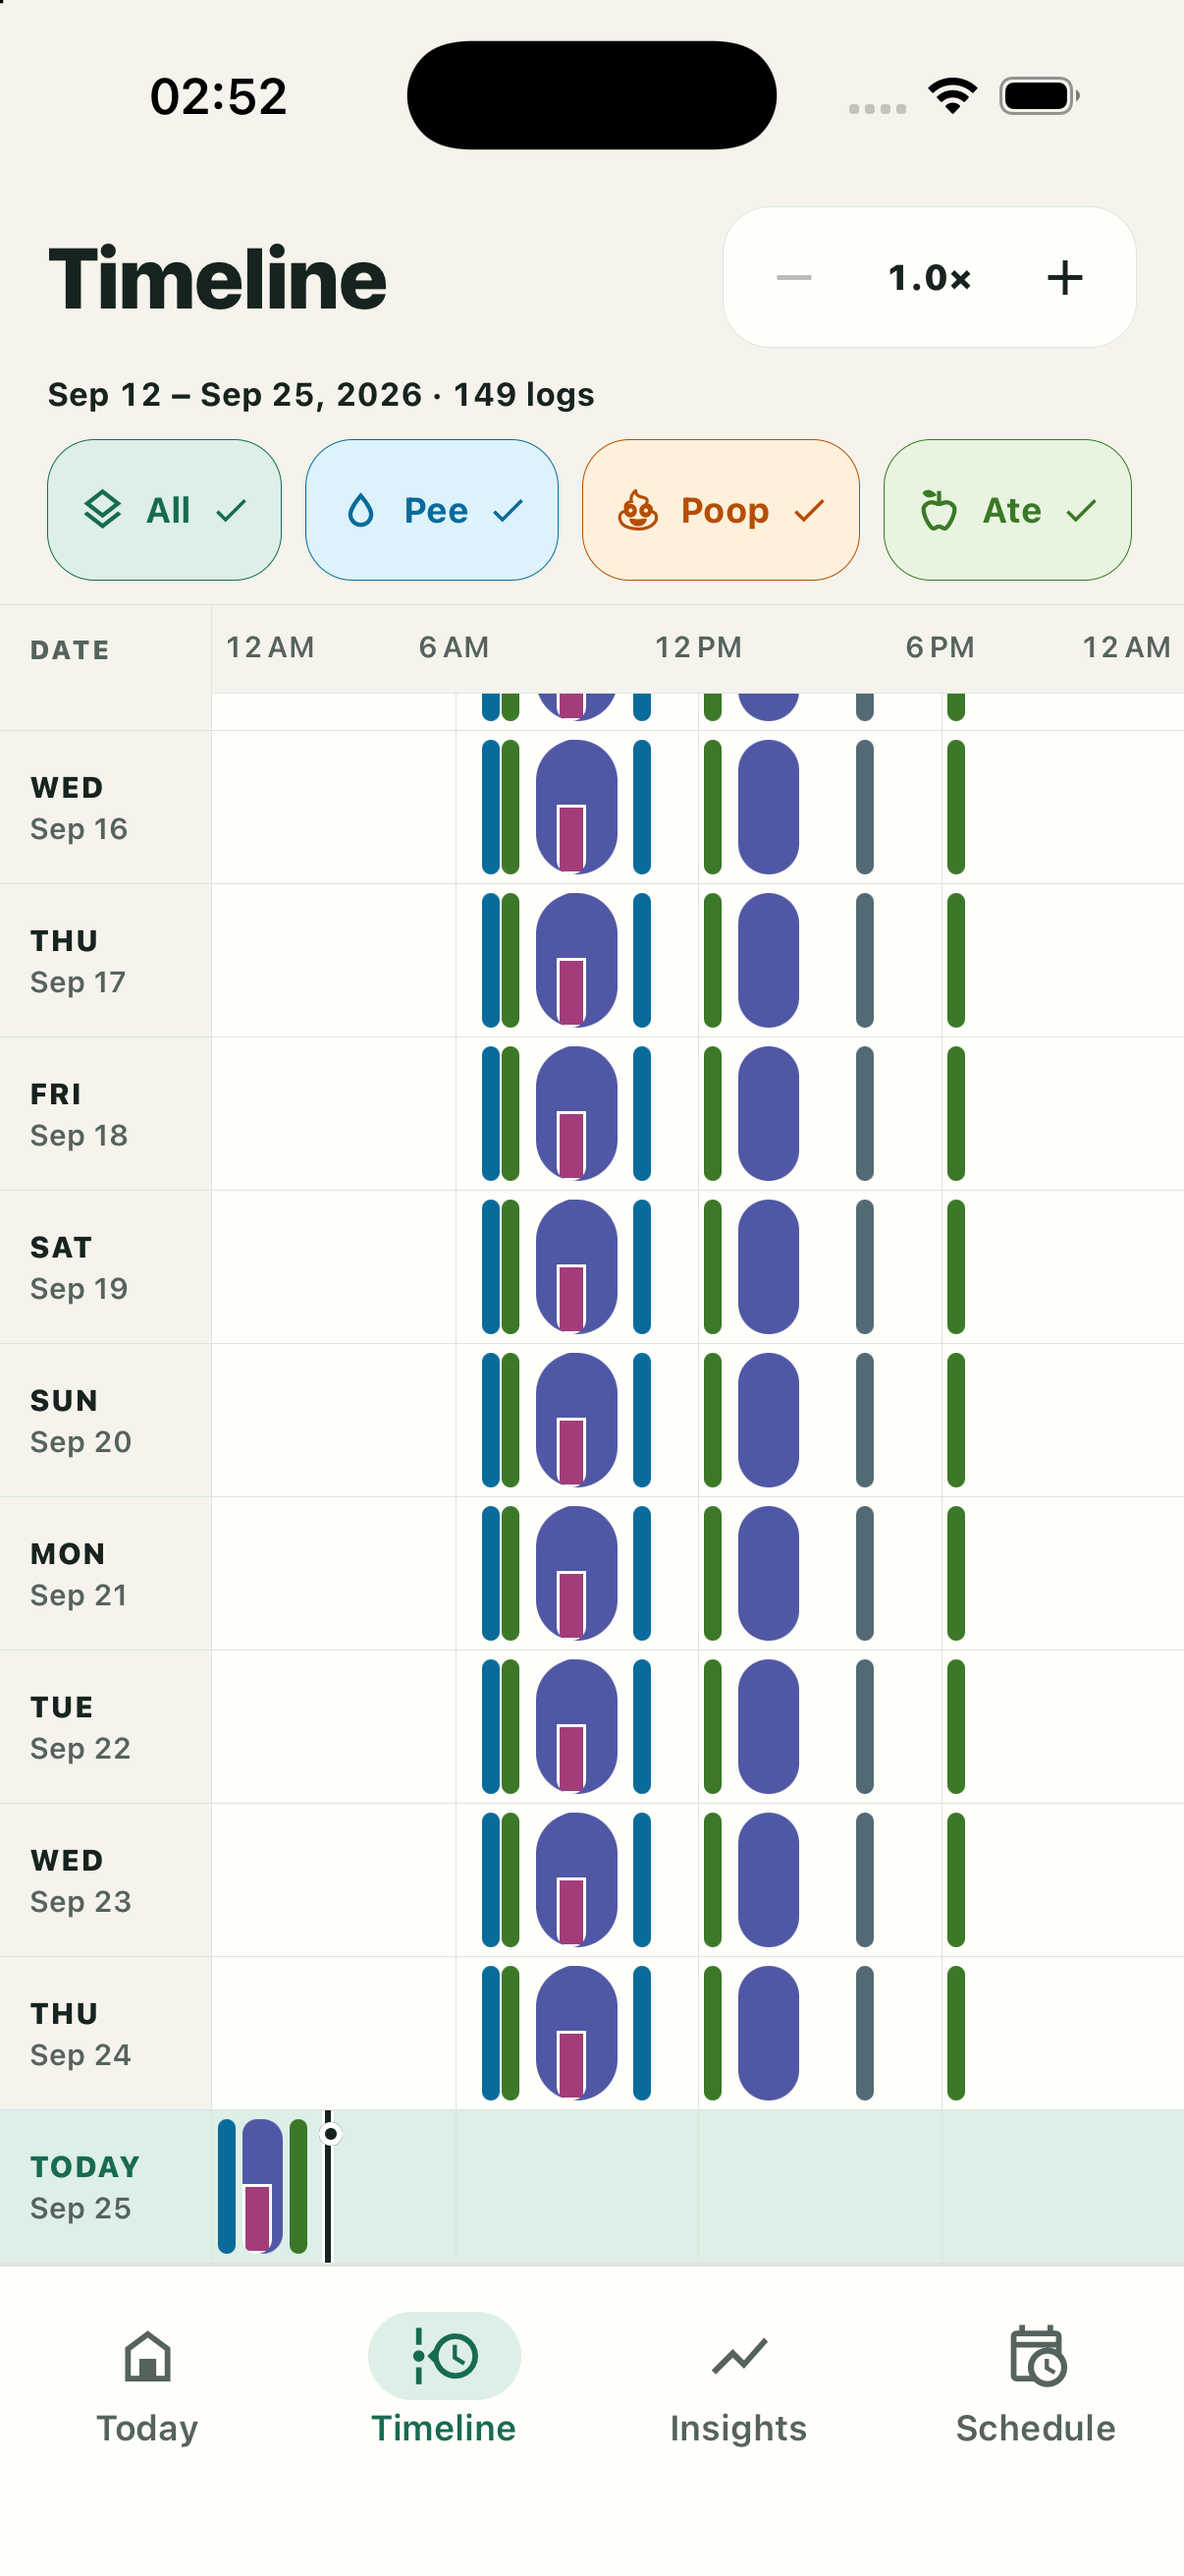
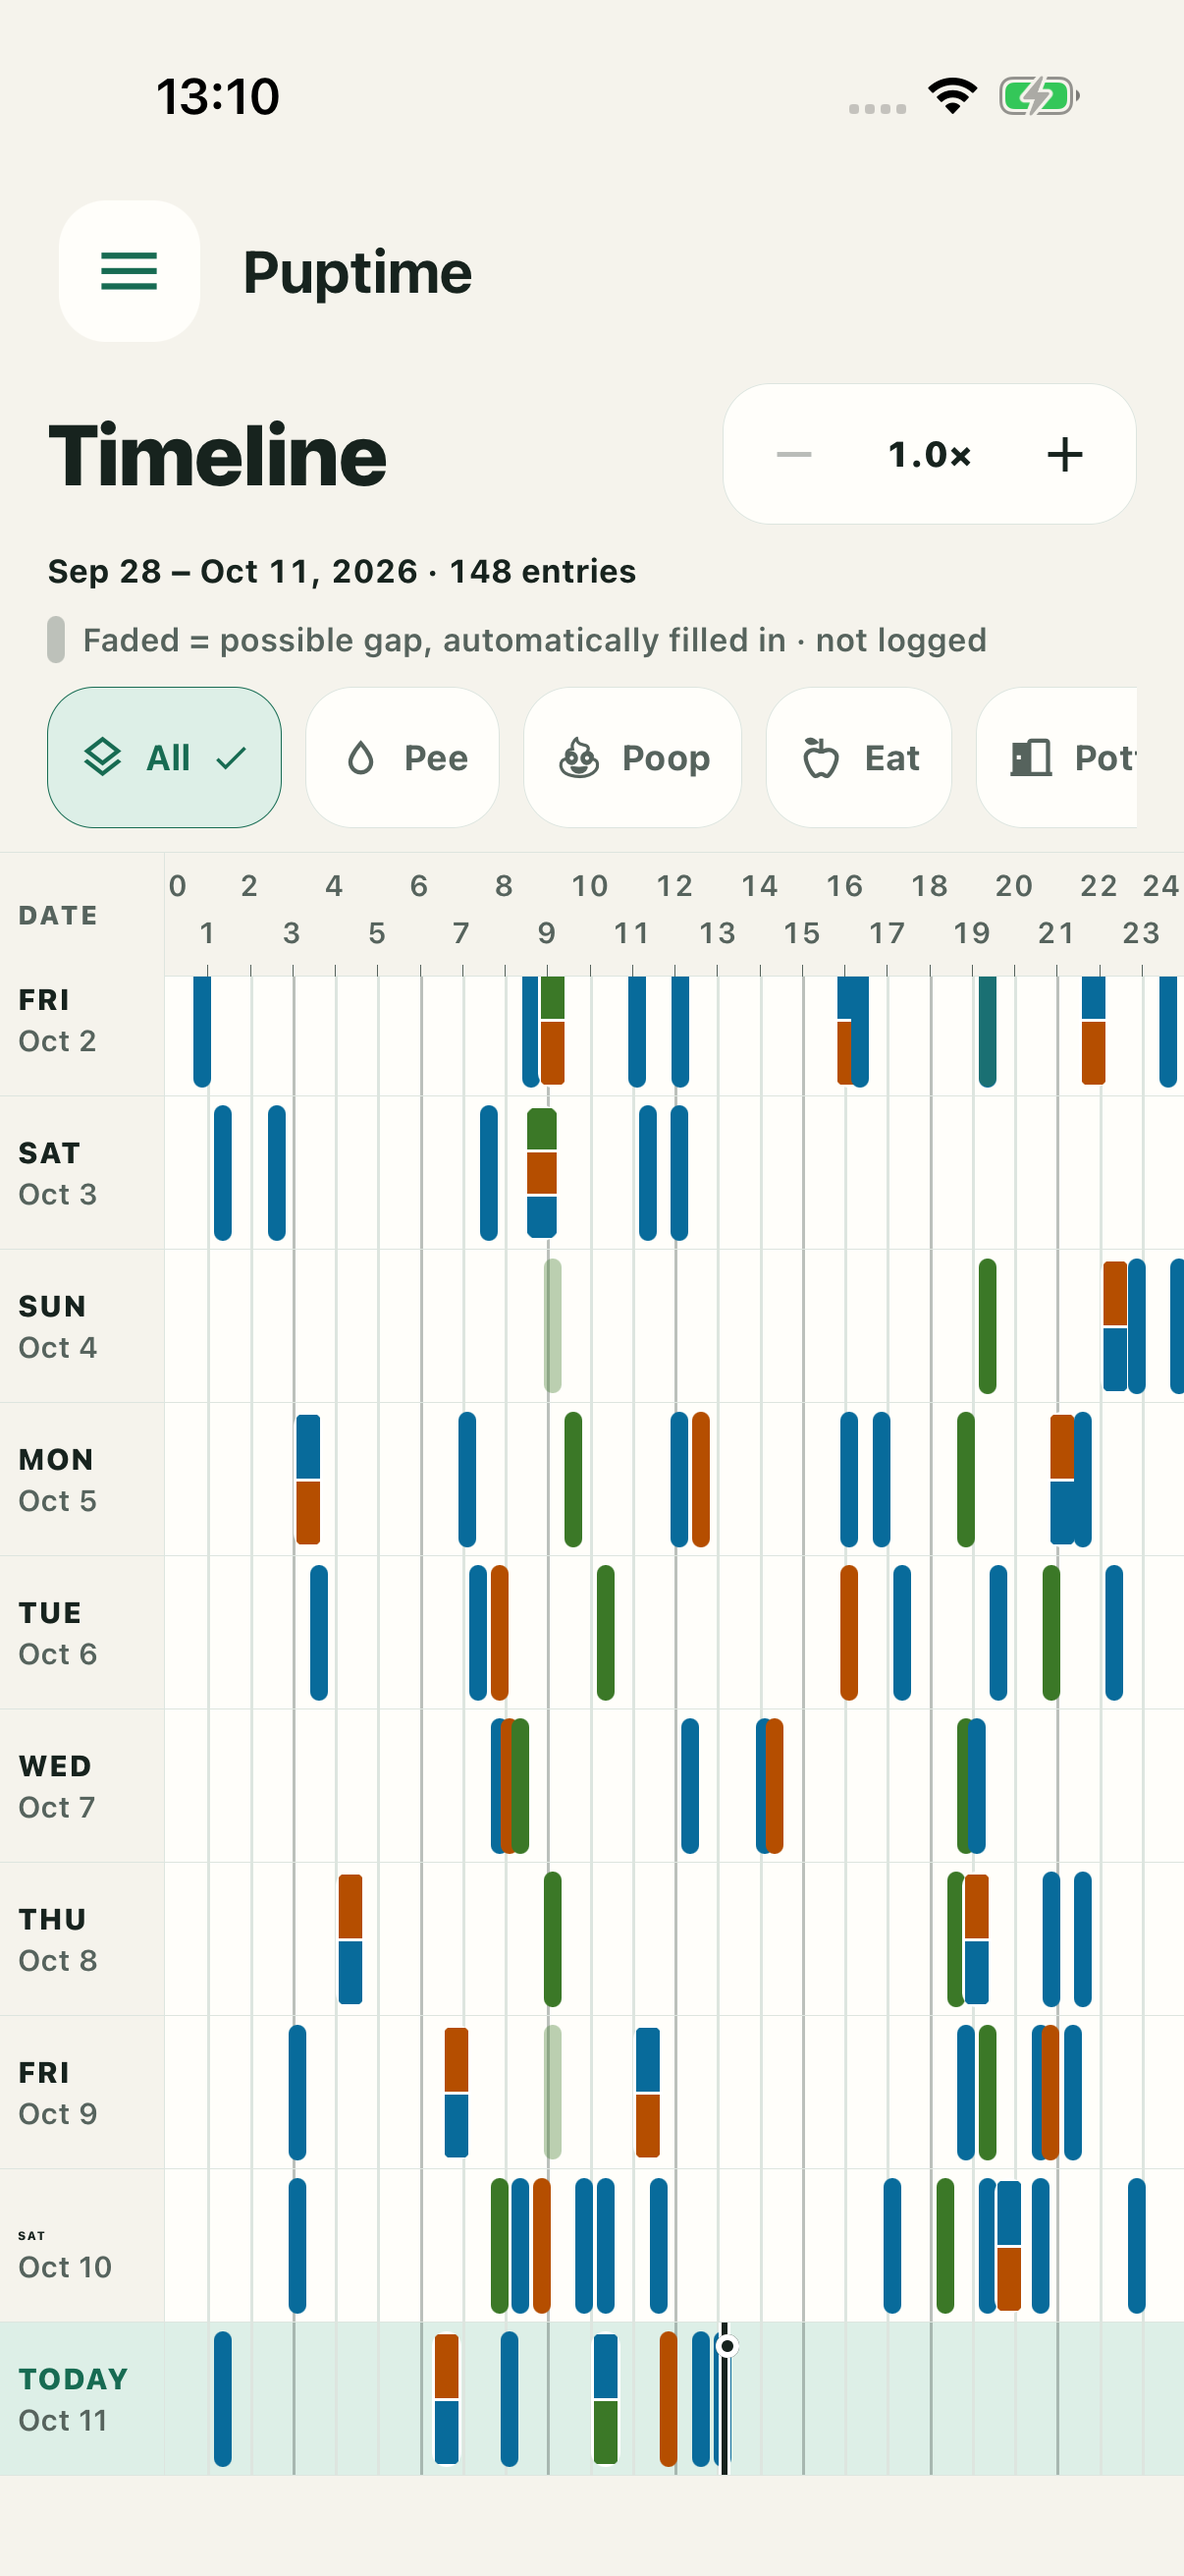
Restore dark green website sections and refresh native app captures

diff --git a/src/web/marketing-styles.ts b/src/web/marketing-styles.ts
@@ -28,7 +28,8 @@ body:has(.marketing-site){overflow-y:auto}
 .site-brand img{border-radius:10px}
 .site-header nav{display:flex;align-items:center;gap:clamp(24px,3vw,48px)}
 .site-header nav a{display:flex;align-items:center;min-height:44px}
-.hero{position:relative;display:grid;grid-template-columns:1.1fr 1fr;gap:24px;align-items:center;min-height:640px;padding:40px var(--margin) 64px;background:var(--paper);color:var(--ink);overflow:clip}
+.marketing-site:not(.care-page) .site-header{background:var(--deep);color:var(--paper)}
+.hero{position:relative;display:grid;grid-template-columns:1.1fr 1fr;gap:24px;align-items:center;min-height:640px;padding:40px var(--margin) 64px;background:var(--deep);color:var(--paper);overflow:clip}
 .hero-copy{position:relative;z-index:1;padding-bottom:30px}
 .hero h1{font-size:var(--display);letter-spacing:-.045em;line-height:.94;max-width:10em}
 .hero-copy>p:first-of-type{font-size:var(--lead);line-height:1.4;max-width:33ch;margin-top:28px}
@@ -38,18 +39,21 @@ body:has(.marketing-site){overflow-y:auto}
 .hero-art{position:relative;align-self:stretch;display:flex;align-items:center;justify-content:center;min-width:0}
 .hero-puppy{width:100%;max-width:520px;height:auto;aspect-ratio:1;object-fit:contain}
 .chapter{padding:80px var(--margin);scroll-margin-top:24px}
-.app-chapter{background:var(--paper);display:grid;grid-template-columns:1fr 1fr;gap:48px;min-height:0;align-items:center}
+.app-chapter{background:var(--deep);color:var(--paper);display:grid;grid-template-columns:1fr 1fr;gap:48px;min-height:0;align-items:center}
 .preview-copy{max-width:620px}
 .preview-choices{display:flex;flex-direction:column;align-items:stretch;margin:40px 0 28px;gap:4px}
 .preview-choices button{display:flex;align-items:center;justify-content:space-between;text-align:left;background:transparent;border:0;padding:10px 16px;font-size:var(--lead);min-height:52px}
-.preview-choices button[aria-pressed=true]{background:var(--mint);font-weight:900}
+.preview-choices button[aria-pressed=true]{background:var(--mint);color:var(--ink);font-weight:900}
 .preview-choices button:hover{transform:translateX(5px)}
 .preview-choices button span{opacity:0}
 .preview-choices button[aria-pressed=true] span{opacity:1}
 .preview-description{max-width:36ch;min-height:4.5em}
 .small-copy{font-size:var(--small);margin-top:24px}
 .app-preview{justify-self:center;width:min(100%,360px);position:relative}
-.app-preview img{display:block;width:100%;height:auto;border-radius:0}
+.phone-frame{position:relative;width:100%;overflow:hidden;border:6px solid #101D18;border-radius:36px;box-shadow:0 16px 40px #0B1E1940;background:#101D18}
+.phone-frame::after{content:'';position:absolute;top:1.5%;left:50%;transform:translateX(-50%);width:29%;height:3.5%;border-radius:999px;background:#101D18;pointer-events:none}
+.phone-frame::before{content:'';position:absolute;bottom:1%;left:50%;transform:translateX(-50%);width:32%;height:.6%;border-radius:999px;background:#101D18;pointer-events:none;z-index:1}
+.phone-frame img{display:block;width:100%;height:auto}
 .app-preview figcaption{font-size:var(--small);margin-top:16px;text-align:center}
 .rhythm-chapter{display:grid;grid-template-columns:1fr 1fr;gap:48px;background:var(--mint);align-items:start}
 .rhythm-intro{position:sticky;top:48px}
@@ -57,8 +61,8 @@ body:has(.marketing-site){overflow-y:auto}
 .rhythm-stories{display:flex;flex-direction:column;gap:100px}
 .rhythm-story h3{margin-bottom:28px}
 .story-content{display:grid;grid-template-columns:1fr .9fr;gap:24px;align-items:center}
-.story-content img{width:100%;height:auto;display:block}
-.story-content.reverse img{order:2}
+.story-content .phone-frame{border-width:5px;border-radius:28px;box-shadow:0 12px 28px #173B3026}
+.story-content.reverse .phone-frame{order:2}
 .story-content p{font-size:var(--body)}
 .care-chapter{background:var(--paper);display:grid;grid-template-columns:1fr 1fr;gap:48px;align-items:center;min-height:0}
 .care-art{width:100%;min-width:0}
@@ -95,8 +99,8 @@ body:has(.marketing-site){overflow-y:auto}
   .site-header{padding-top:18px;padding-bottom:18px}.hero{min-height:580px;grid-template-columns:1.15fr 1fr}
   .hero-copy>p:first-of-type{font-size:18px}.hero-puppy{width:100%}
   .chapter{padding-top:80px;padding-bottom:80px;gap:6%}.preview-choices{margin-top:28px}
-  .app-preview{width:min(100%,310px)}.story-content{grid-template-columns:1fr}.story-content img{max-width:260px}
-  .story-content.reverse img{order:0}.rhythm-stories{gap:72px}.guide-links{grid-template-columns:1fr;gap:0}
+  .app-preview{width:min(100%,310px)}.story-content{grid-template-columns:1fr}.story-content .phone-frame{max-width:260px}
+  .story-content.reverse .phone-frame{order:0}.rhythm-stories{gap:72px}.guide-links{grid-template-columns:1fr;gap:0}
 }
 @media(min-width:601px) and (max-width:700px){
   .hero{grid-template-columns:1fr;min-height:0;padding-top:32px;padding-bottom:32px;gap:16px}
@@ -115,8 +119,8 @@ body:has(.marketing-site){overflow-y:auto}
   .app-chapter{gap:36px}.preview-choices{display:grid;grid-template-columns:1fr 1fr;gap:4px;margin:28px 0 24px}
   .preview-choices button{font-size:22px;padding:10px 12px}.preview-description{min-height:4.5em}.small-copy{margin-top:16px}
   .app-preview{width:280px;max-width:100%;align-self:center}.rhythm-intro{position:static}.rhythm-intro p{font-size:var(--body);margin-top:24px}
-  .rhythm-stories{width:100%;gap:56px}.story-content{grid-template-columns:1fr;gap:20px;align-items:start}.story-content img{max-width:280px;justify-self:center}.story-content p{max-width:36ch}.story-content img{width:100%}
-  .story-content.reverse img{order:0}.rhythm-story h3{margin-bottom:20px}.care-chapter{gap:32px}.care-art{order:2}.care-copy>p{margin:24px 0}
+  .rhythm-stories{width:100%;gap:56px}.story-content{grid-template-columns:1fr;gap:20px;align-items:start}.story-content .phone-frame{max-width:280px;justify-self:center}.story-content p{max-width:36ch}.story-content .phone-frame{width:100%}
+  .story-content.reverse .phone-frame{order:0}.rhythm-story h3{margin-bottom:20px}.care-chapter{gap:32px}.care-art{order:2}.care-copy>p{margin:24px 0}
   .care-art img{max-width:420px}.guide-links{grid-template-columns:1fr 1fr;gap:0 12px}.local-chapter{gap:32px}.local-columns{display:flex;flex-direction:column;gap:24px}.local-columns p{font-size:var(--body)}
   .local-columns .text-action{margin-top:16px}.account-chapter{min-height:180px;padding-top:28px;padding-bottom:24px}.account-word{font-family:'Red Hat Display',sans-serif;font-size:56px}.account-arrow{font-size:52px;top:20px}
   .site-footer{padding-top:48px}.footer-bottom{display:flex;flex-direction:column;gap:28px;margin-top:36px}.footer-bottom nav{width:100%;gap:4px 20px}
@@ -126,9 +130,8 @@ body:has(.marketing-site){overflow-y:auto}
   .hero .primary-action{animation:text-arrive 900ms 160ms var(--ease) both}.hero-note{animation:text-arrive 900ms 240ms var(--ease) both}
   .hero-puppy{animation:puppy-arrive 1200ms var(--ease) both}
   [data-reveal].arrived{animation:text-arrive 850ms var(--ease) both}
-  img[data-reveal].arrived,.care-art.arrived{animation:picture-arrive 1100ms var(--ease) both}
+  .phone-frame.arrived,.care-art.arrived{animation:picture-arrive 1100ms var(--ease) both}
   .preview-choices.arrived,.guide-links.arrived{animation:choices-arrive 800ms var(--ease) both}
-  .app-preview>img{animation:picture-arrive 600ms var(--ease) both}
 }
 @keyframes title-arrive{from{transform:translateY(24px)}to{transform:none}}
 @keyframes text-arrive{from{transform:translateY(20px);opacity:.6}to{transform:none;opacity:1}}

diff --git a/App.web.tsx b/App.web.tsx
@@ -91,10 +91,10 @@ export default function MarketingSite({ path = '/' }: { path?: string }) {
             {previews.map((preview, index) => <button type="button" key={preview.name} aria-pressed={selected === index} aria-controls="app-preview" onClick={() => setSelected(index)}>{preview.name}<span aria-hidden="true">↗</span></button>)}
           </div>
           <p className="preview-description" aria-live="polite" aria-atomic="true">{previews[selected].description}</p>
-          <p className="small-copy">Screens from the offline release.</p>
+          <p className="small-copy">From the app, with real puppy logs.</p>
         </div>
         <figure className="app-preview" id="app-preview" data-reveal>
-          <img key={selected} src={previews[selected].image} alt={`Puptime ${previews[selected].name} screen`} width="430" height="932" />
+          <div className="phone-frame"><img key={selected} src={previews[selected].image} alt={`Puptime ${previews[selected].name} screen`} width="1206" height="2622" /></div>
           <figcaption>{previews[selected].name} on Puptime</figcaption>
         </figure>
       </section>
@@ -108,14 +108,14 @@ export default function MarketingSite({ path = '/' }: { path?: string }) {
           <article className="rhythm-story">
             <h3 data-reveal>Spot the potty patterns</h3>
             <div className="story-content">
-              <img src={timingImage} alt="Puptime timeline comparing activity times across ten days" width="1206" height="2622" loading="lazy" data-reveal />
-              <p data-reveal>Compare activity across 10, 20, or 30 days. Look for recurring potty times, with estimates kept separate from recorded logs.</p>
+              <div className="phone-frame" data-reveal><img src={timingImage} alt="Puptime timeline showing real puppy activity with varied daily timings" width="1206" height="2622" loading="lazy" /></div>
+              <p data-reveal>Compare activity across recorded days. Look for recurring potty times, with estimates kept separate from recorded logs.</p>
             </div>
           </article>
           <article className="rhythm-story">
             <h3 data-reveal>A routine that fits</h3>
             <div className="story-content reverse">
-              <img src={routineImage} alt="Editable daily routine with activity times and optional reminders" width="430" height="932" loading="lazy" data-reveal />
+              <div className="phone-frame" data-reveal><img src={routineImage} alt="Editable daily routine with activity times and optional reminders" width="1206" height="2622" loading="lazy" /></div>
               <p data-reveal>Review suggested times from your puppy’s history, then adjust each activity. Choose reminders for the routine you want to follow.</p>
             </div>
           </article>

diff --git a/assets/screenshots/README.md b/assets/screenshots/README.md
@@ -1,0 +1,22 @@
+# Website app captures
+
+The five website screenshots (`today`, `activity`, `insights-summary`,
+`insights-timeline`, and `schedule`) were retaken on October 21, 2026 from
+the current app source on a dedicated iPhone 17 simulator running iOS 26.5.
+Each PNG is a full-resolution 1206 × 2622 native capture.
+
+The journal contains 338 real CSV records from September 11 through October 11.
+Their dates, activity types, and times are preserved. Personal note text is
+omitted from the public captures; the source CSV and simulator database stay
+outside version control. The routine uses the app's suggestions from that history.
+
+For the captures, the local simulator app's clock is anchored to October 11
+at 13:10 in Asia/Shanghai so the last recorded day can appear as Today. This is
+a capture-only clock override; the published app has no override or demo data.
+The native runtime is the existing 1.11.30 simulator build, with a fresh
+production JavaScript bundle and assets exported from the current checkout.
+
+The PNGs contain the app screen only. The website adds rounded bezels, the
+camera cutout, home indicator, and shadow in CSS, keeping the original pixels
+available at native resolution. The widget and appearance reference images
+are older captures and are not displayed on the website.
